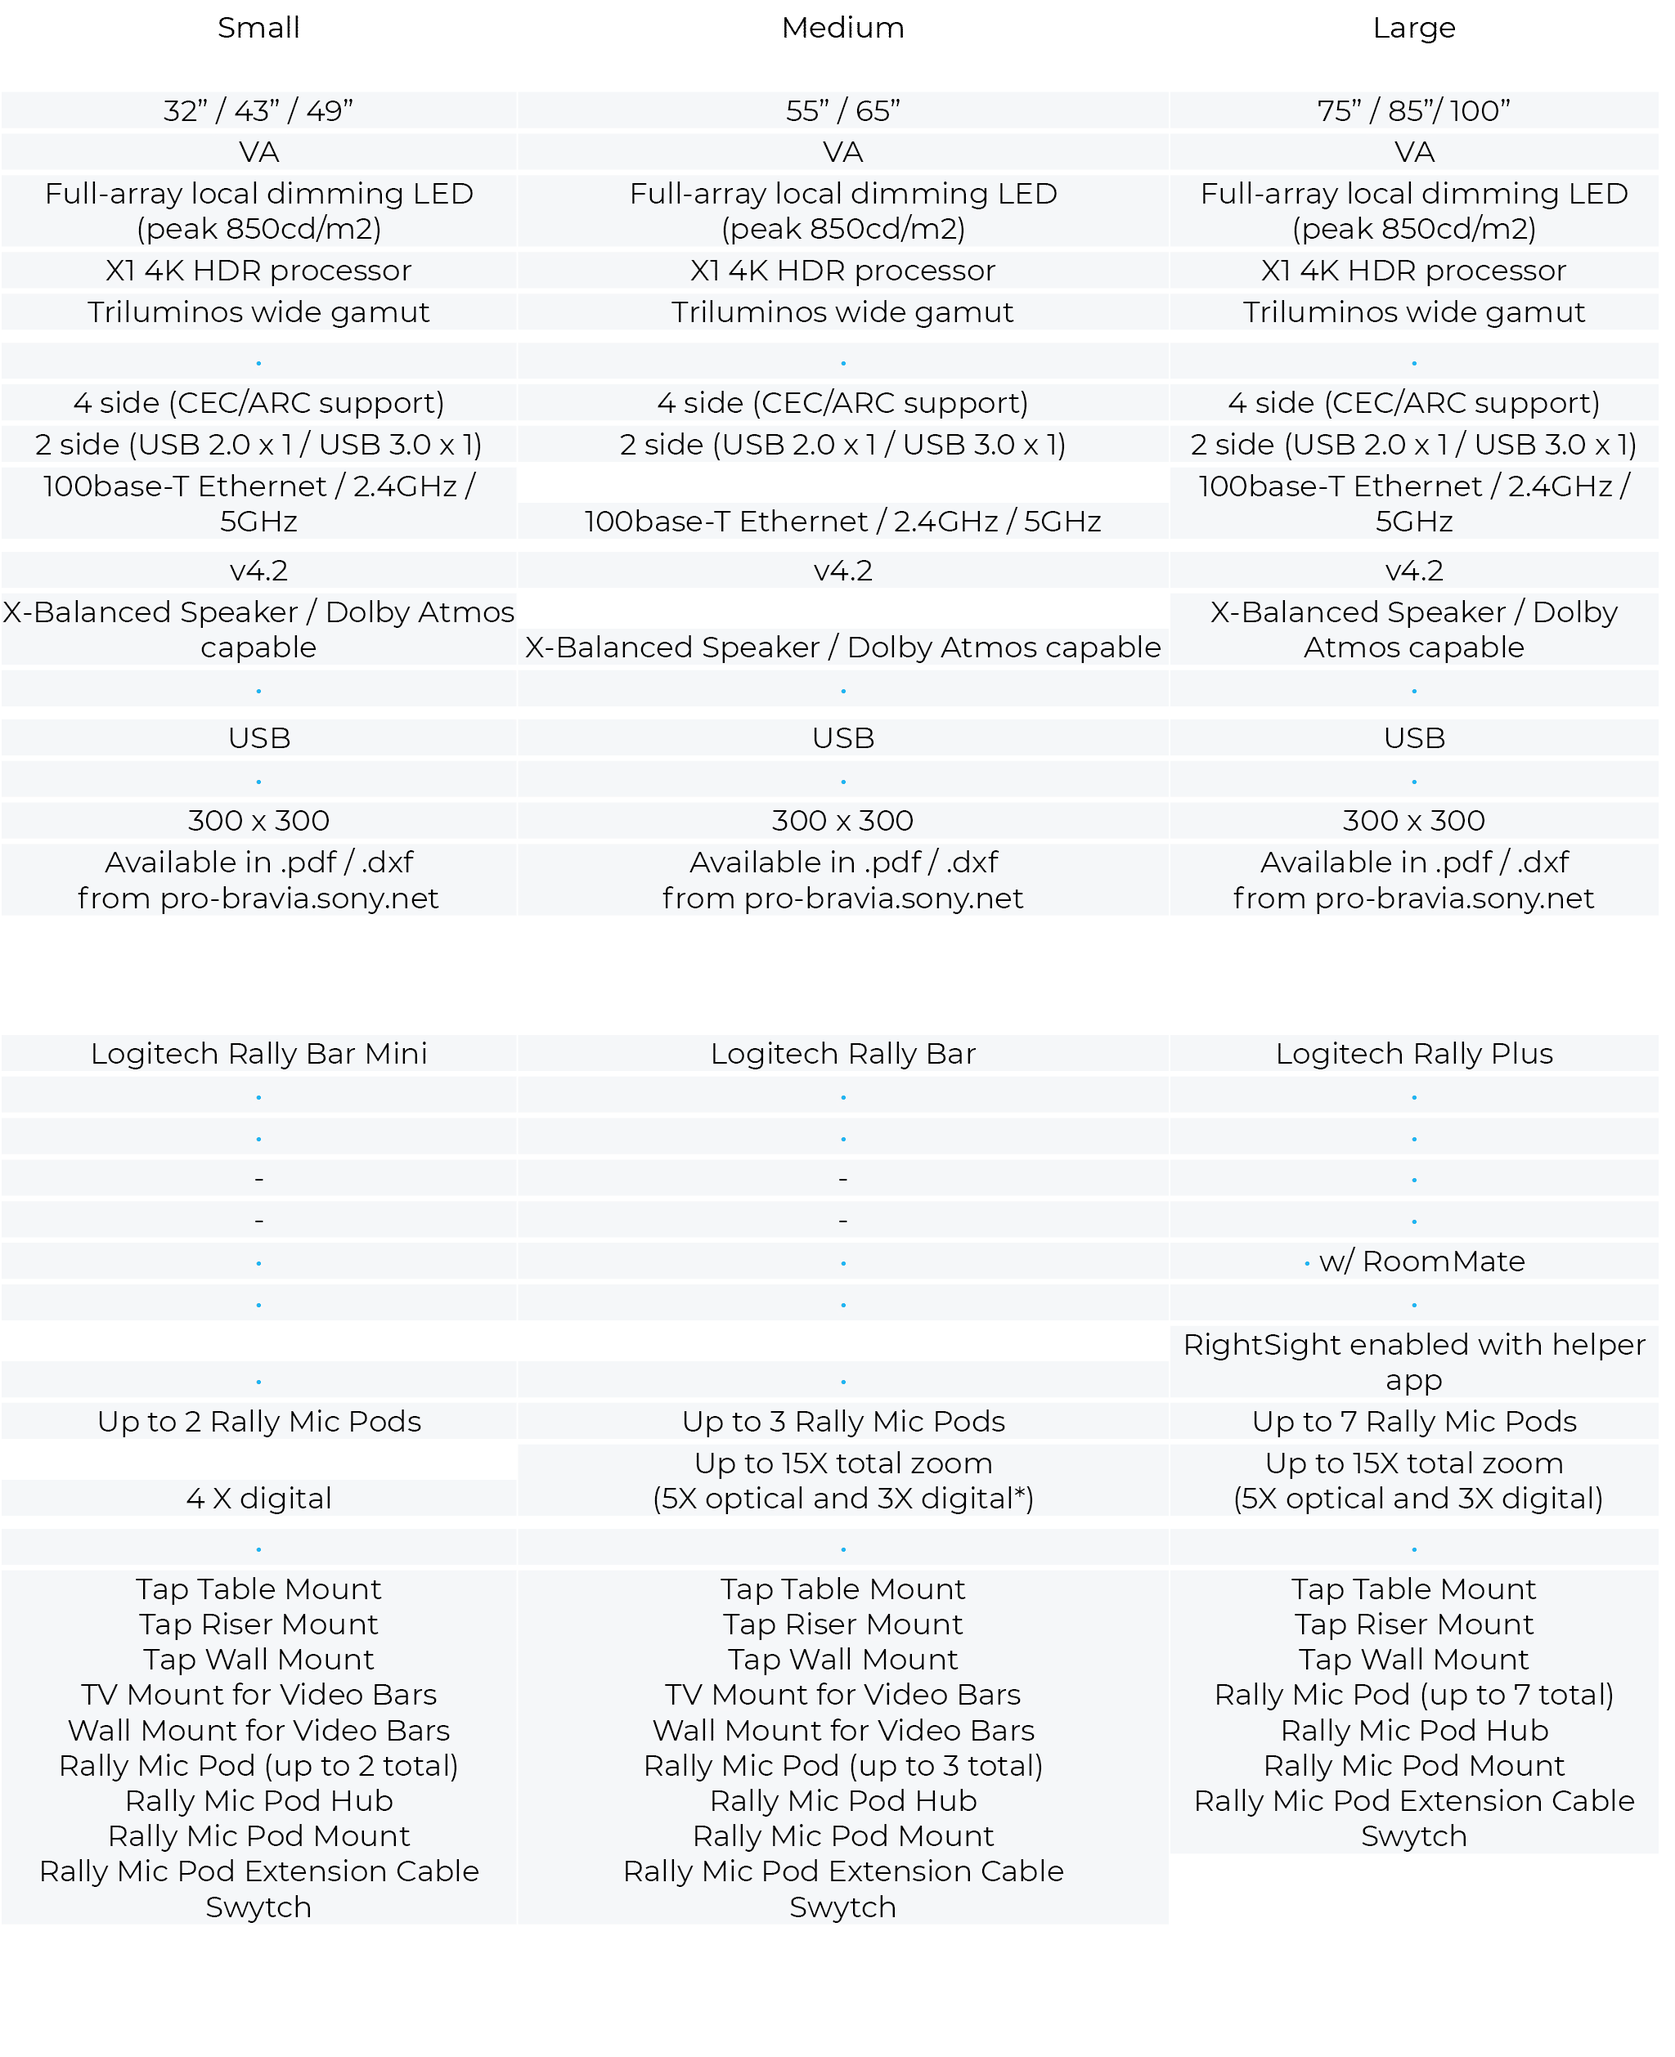
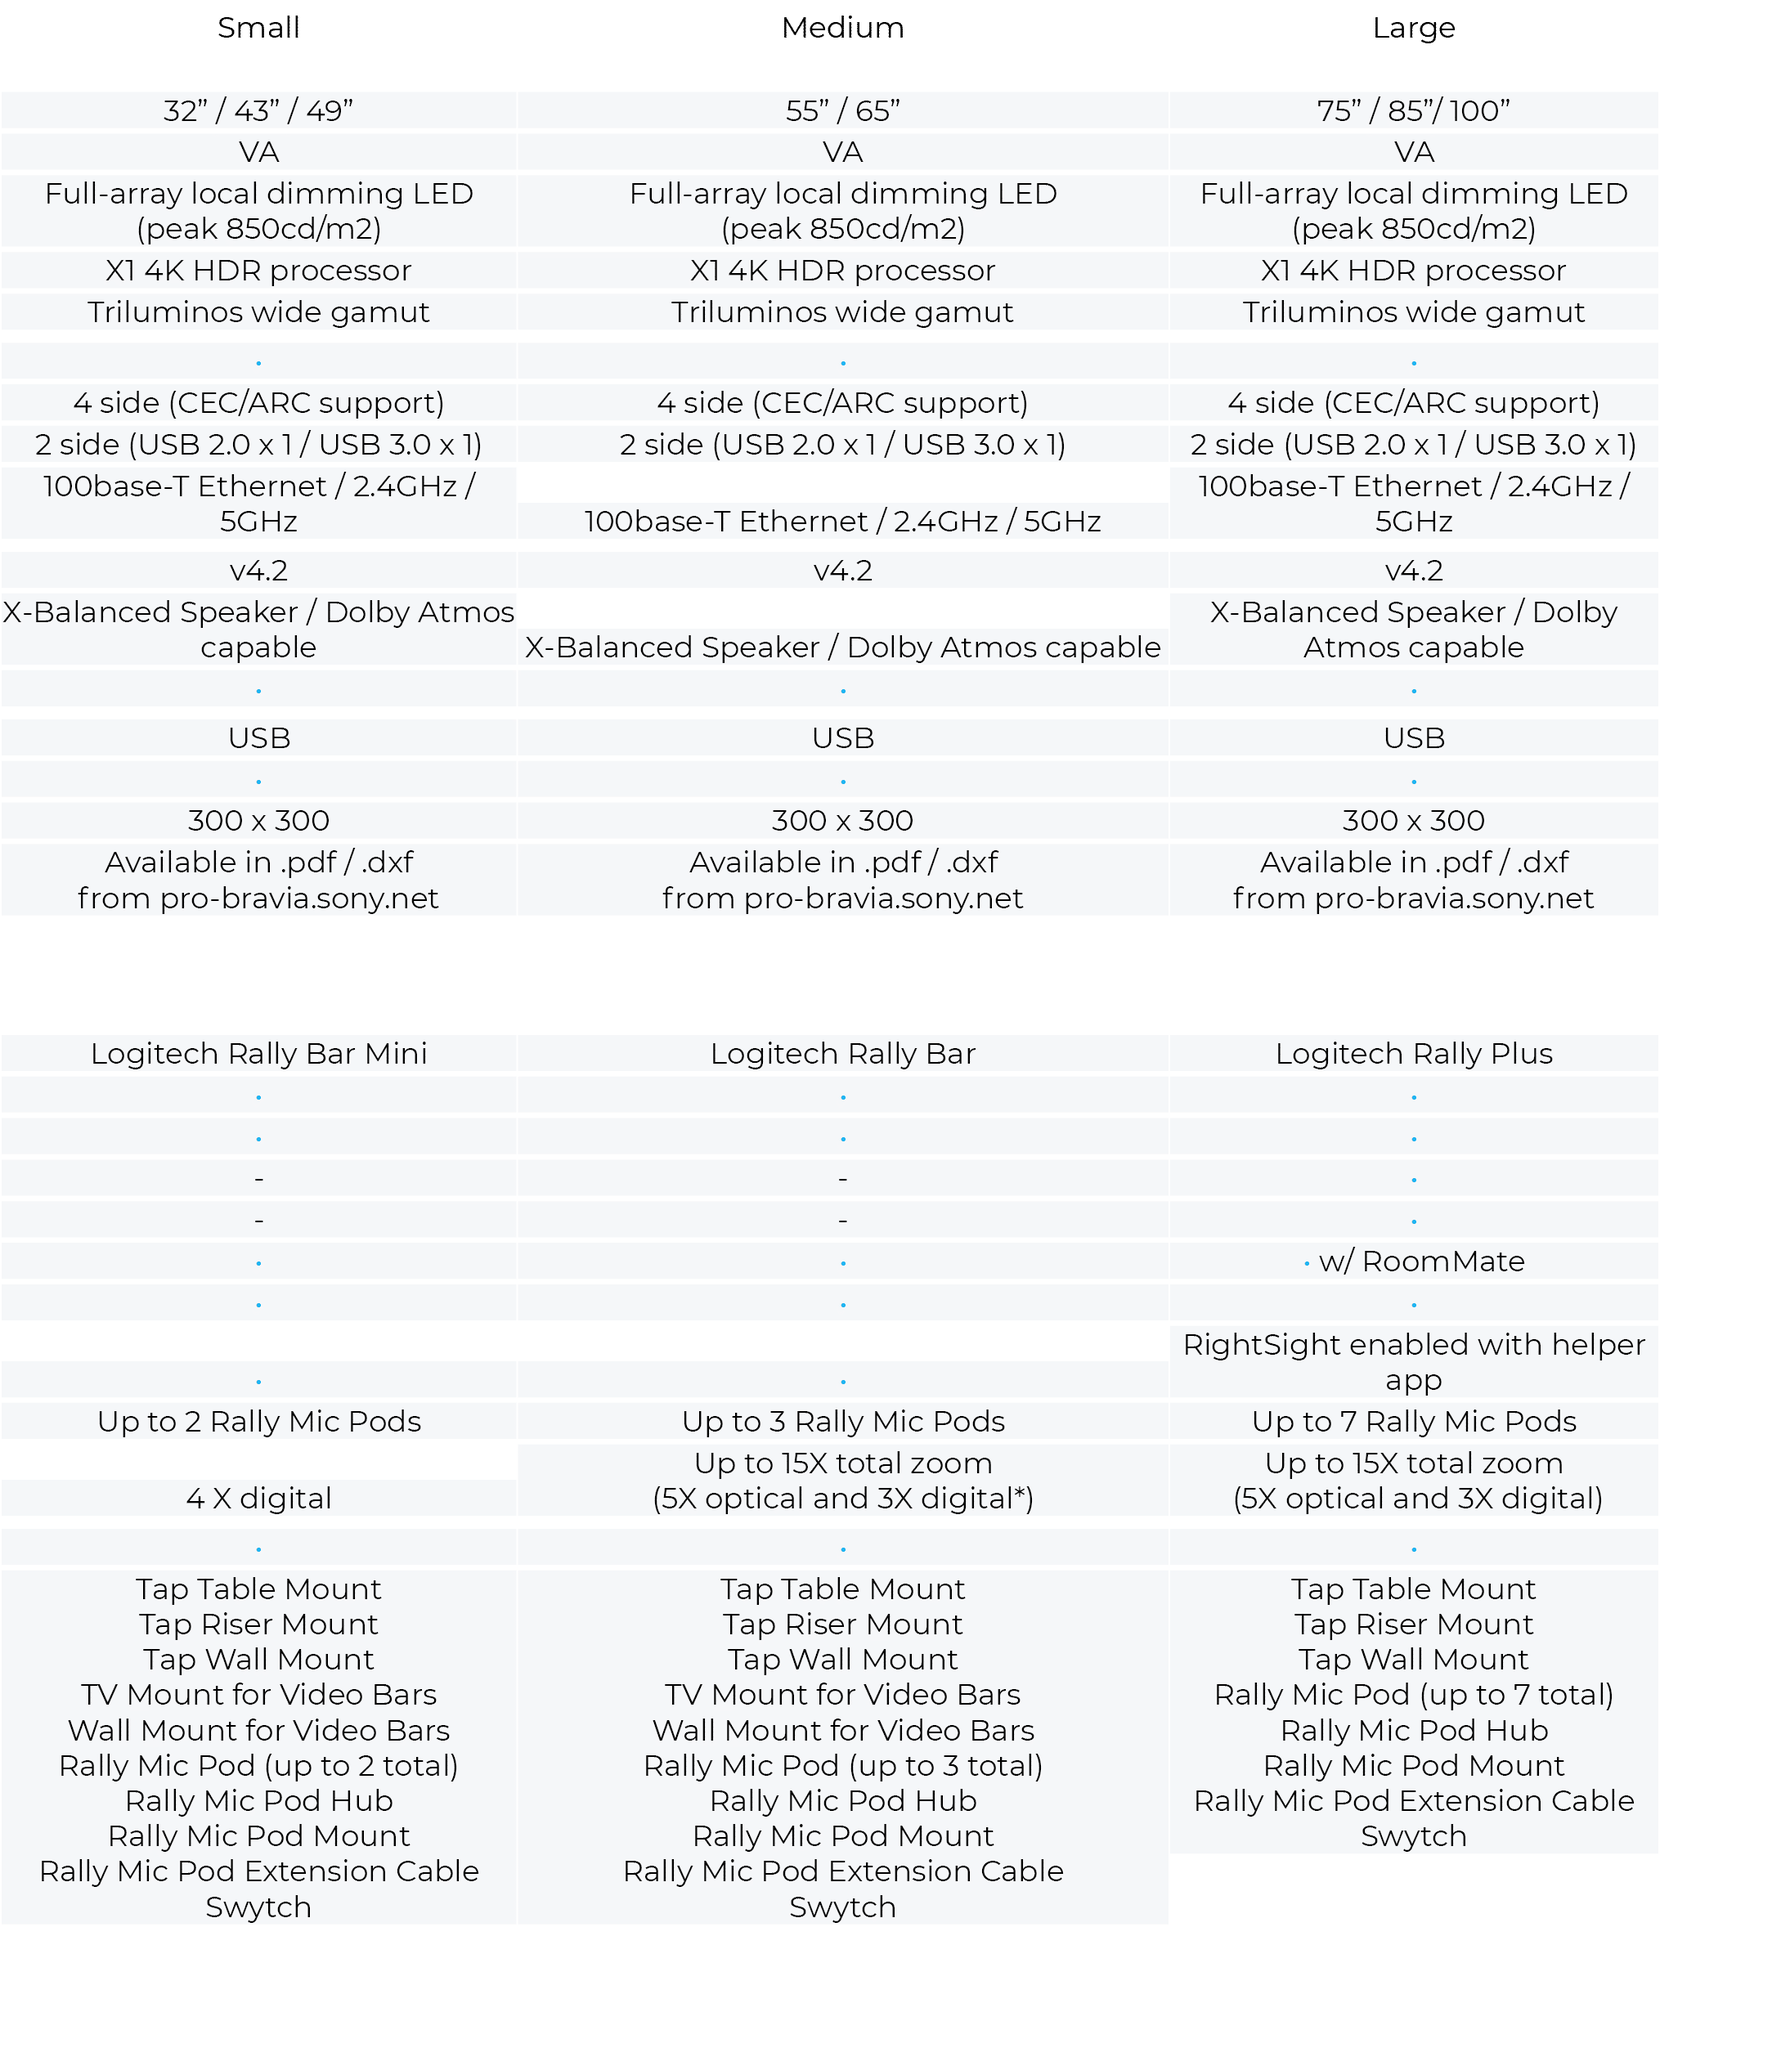
responsive v1

diff --git a/index.html b/index.html
@@ -127,7 +127,7 @@ document.head.querySelector('meta[property="og:url"]').content=ogURL;
         </div>
       </div>
     </div>
-    <div class="page-scale-wrap mq-1920 mq-default" data-layout-name="1920x1080" data-ani-load="go({target:this},[{n:1,id:3375,act:'play'},{n:1,id:3352,act:'play'},{del:0.5,n:1,id:3349,act:'play'}], 'pageload');" style="width:1920px;height:1080px;">
+    <div class="page-scale-wrap mq-1920 mq-default" data-layout-name="1920x1080" data-ani-load="go({target:this},[{n:1,link:1,id:3375,act:'play'},{n:1,link:1,id:3352,act:'play'},{del:0.5,n:1,id:3349,sn:1,act:'play'}], 'pageload');" style="width:1920px;height:1080px;">
       <div id="item3348" class="pageItem" alt="Movie" style="width:1920px !important;top:1px !important;">
         <video width="1920" height="1082" data-id="3348" loop="loop" poster="assets/images/item_3348.png" data-autoplay="1" data-autodelay="0" webkit-playsinline="playsinline" playsinline="playsinline" muted="muted" class="mejs-none">
           <source src="assets/media/Video Banner Mock Up-720p_short.mp4" type="video/mp4"/>
@@ -629,7 +629,7 @@ document.head.querySelector('meta[property="og:url"]').content=ogURL;
         <img src="assets/images/blank.gif" class="pageItem hd" alt="Body copy Laborpor sita nima eum reicimet, vidi simusandam dolupidelit etur, volupta sinit, comnis ad ut que mo excep   " style="left:29px !important;top:-1px !important;" id="item4872" data-src="assets/images/item_4872.png"/>
       </div>
       <img src="assets/images/blank.gif" class="pageItem hd" alt="Copy header " style="left:36px !important;top:1132px !important;" id="item4848" data-src="assets/images/item_4848.png"/>
-      <img src="assets/images/blank.gif" class="pageItem" data-ani="springleft-4896 1s cubic-bezier(0,1.5,0,1.5) infinite" data-id="4896" id="item4896" alt="More animated text (loop)" style="width:301px !important;left:100px !important;top:977px !important;" data-src="assets/images/item_4896.png"/>
+      <img src="assets/images/blank.gif" class="pageItem" data-ani="springleft-4896 1s cubic-bezier(0,1.5,0,1.5) infinite" data-id="4896" id="item4896" alt="More animated text (loop)" style="width:301px !important;left:113px !important;top:974px !important;" data-src="assets/images/item_4896.png"/>
       <button class="pageItem hidden" id="item4949" data-id="4949" name="hotspot 4" alt="hotspot 4">
         <div class="pageItem state btn-off">
           <div id="item4951" class="pageItem" alt="Rectangle">&nbsp;</div>
@@ -1719,7 +1719,7 @@ document.head.querySelector('meta[property="og:url"]').content=ogURL;
       <img src="assets/images/blank.gif" class="pageItem hd" alt="Rectangle" style="left:515px !important;top:118px !important;" id="item8630" data-src="assets/images/item_8630.png"/>
       <img src="assets/images/blank.gif" class="pageItem hd" alt="Rectangle" style="left:753px !important;top:128px !important;" id="item8633" data-src="assets/images/item_8633.png"/>
       <div id="item9556" class="pageItem scroll-horiz" alt="Rectangle">
-        <img src="assets/images/blank.gif" class="pageItem hd" alt="Small,Medium,Large,,,,32    43    49 ,55    65 ,75    85   100 ,VA,VA,VA,Full-array local dimming LED (peak 850cd m2)   " style="left:-261px !important;top:44px !important;" id="item9557" data-src="assets/images/item_9557.png"/>
+        <img src="assets/images/blank.gif" class="pageItem hd" alt="Small,Medium,Large,,,,32    43    49 ,55    65 ,75    85   100 ,VA,VA,VA,Full-array local dimming LED (peak 850cd m2)   " style="top:44px !important;" id="item9557" data-src="assets/images/item_9557.png"/>
       </div>
       <div class="pageItem mso" data-id="8724" id="item8724" name="compact_menu 1" alt="compact_menu 1">
         <div class="pageItem state active" name="closed">

diff --git a/assets/css/pages.css b/assets/css/pages.css
@@ -1655,10 +1655,10 @@ html[data-dir="rtl"] nav#page-nav > #backBtn, html:not([data-dir="rtl"]) nav#pag
 }
 
 #item4737.in5-parallax-bg {
-	width:767px !important;
-	height:377px !important;
-	left:-216px !important;
-	top:-1px !important;
+	width:624px !important;
+	height:324px !important;
+	left:-105px !important;
+	top:1px !important;
 }
 
 #item4740 {
@@ -1800,11 +1800,11 @@ html[data-dir="rtl"] nav#page-nav > #backBtn, html:not([data-dir="rtl"]) nav#pag
 
 @keyframes springleft-4896 {
 	0% {transform:translate(0px,0px);}
-	100% {transform:translate(-200px,0px);}
+	100% {transform:translate(-145px,0px);}
 }
 @-webkit-keyframes springleft-4896 {
 	0% {-webkit-transform:translate(0px,0px);}
-	100% {-webkit-transform:translate(-200px,0px);}
+	100% {-webkit-transform:translate(-145px,0px);}
 }
 #item4951 {
 	width:175px !important;
@@ -2708,7 +2708,7 @@ html[data-dir="rtl"] nav#page-nav > #backBtn, html:not([data-dir="rtl"]) nav#pag
 }
 
 #item9556 {
-	width:501px !important;
+	width:548px !important;
 	height:1346px !important;
 	left:440px !important;
 	top:403px !important;
